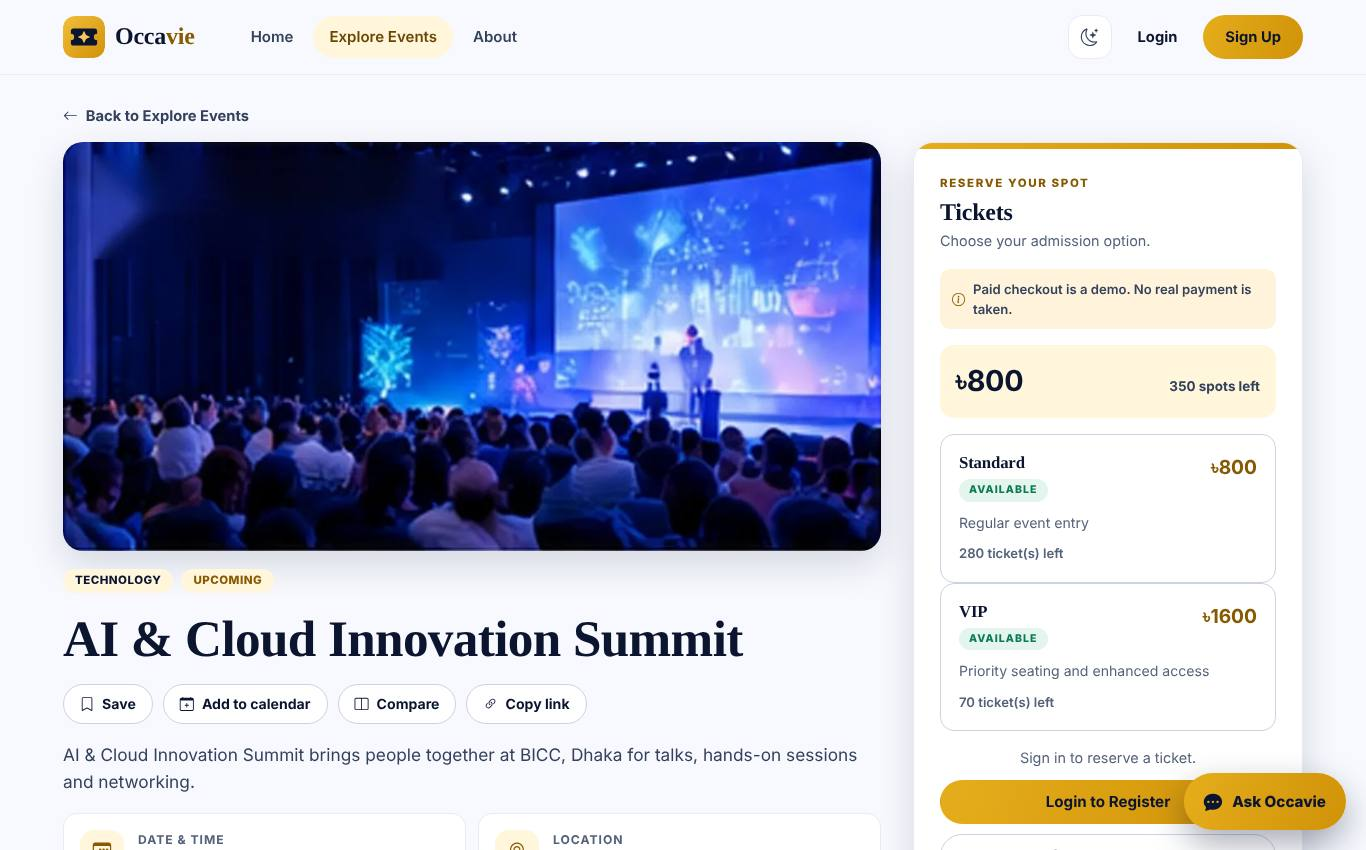
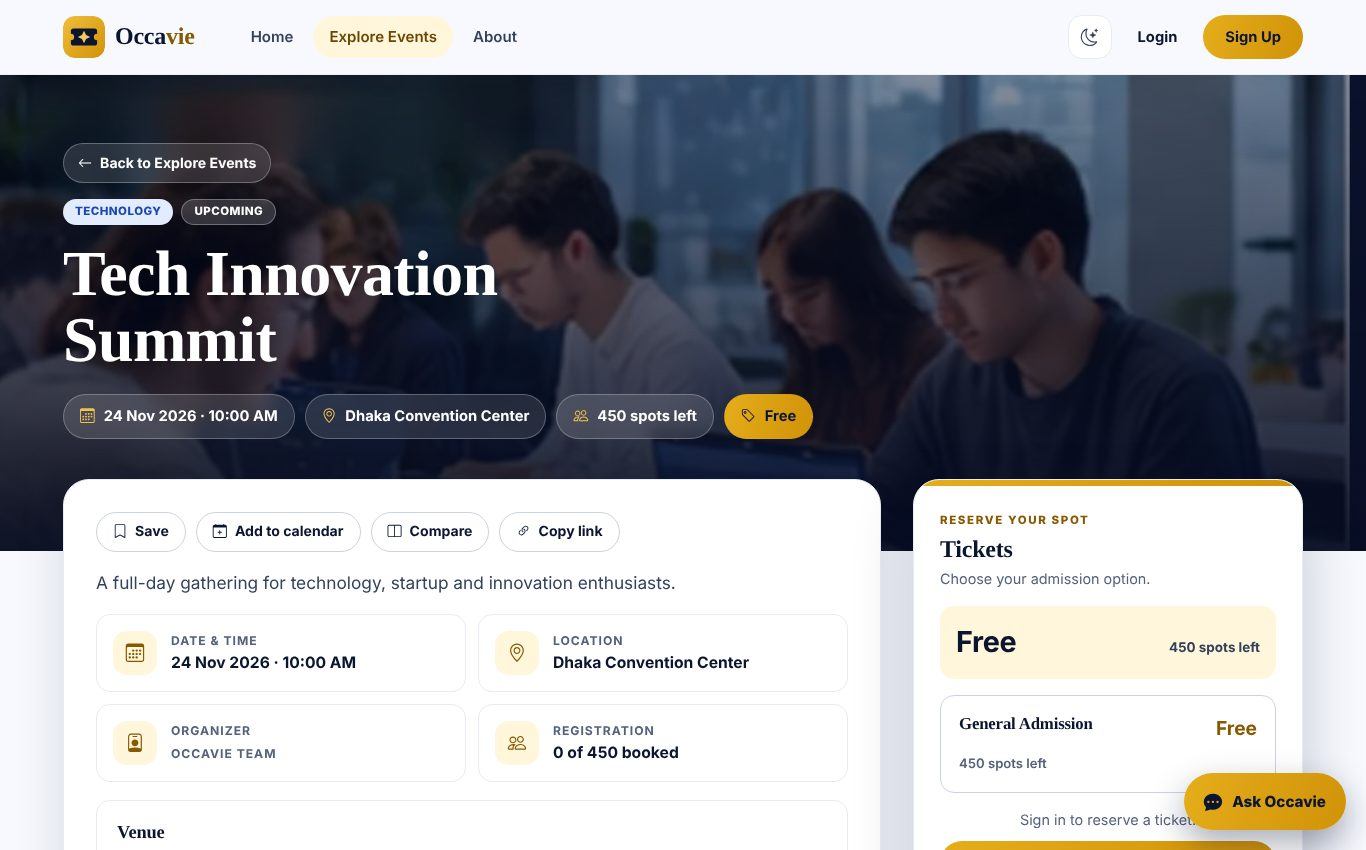
Redesign the event details page
Full-width hero built from the event's own photo with a slow zoom, title, topic and
status tags and glass chips for date, place, seats left and price. The details card
and ticket panel float over it. Booking, save, compare and calendar behaviour is
unchanged. axe clean at 4 sizes/themes.

Claude-Session: https://claude.ai/code/session_0133mjV3fwqNK9PBtkP1vyh6

diff --git a/src/main/resources/templates/event-details.html b/src/main/resources/templates/event-details.html
@@ -5,17 +5,26 @@
 <script type="application/ld+json" th:if="${eventJsonLd != null}" th:utext="${eventJsonLd}"></script>
 <a class="skip-link" href="#main-content">Skip to content</a>
 <div th:replace="~{fragments :: siteNav('events')}"></div>
-<main class="ov-container ov-details-main" id="main-content">
+<section class="ov-ed-hero" aria-labelledby="edTitle" th:with="efCover=${@display.listingImageUrl(event)},edSpots=${event.capacity - registrationCount}">
+  <img class="ov-ed-hero-img" data-event-image th:attr="data-event-category=${event.category}" th:src="${efCover}" src="/images/event-visual.png" alt="" fetchpriority="high">
+  <div class="ov-container ov-ed-hero-inner">
+    <a class="ov-ed-back" th:href="@{/events}" href="/events"><i class="bi bi-arrow-left" aria-hidden="true"></i> Back to Explore Events</a>
+    <div class="ov-ed-tags"><span class="ov-card-tag" th:attr="data-cat=${event.category}" th:text="${event.category}">Technology</span><span class="ov-status-pill" th:text="${@display.status(event)}">UPCOMING</span></div>
+    <h1 id="edTitle" th:text="${event.title}">Event title</h1>
+    <ul class="ov-ed-meta" aria-label="Event at a glance">
+      <li><i class="bi bi-calendar3" aria-hidden="true"></i><span th:text="${@display.eventDate(event) + ' · ' + @display.eventTime(event)}">Date</span></li>
+      <li><i class="bi bi-geo-alt" aria-hidden="true"></i><span th:text="${event.location}">Dhaka</span></li>
+      <li><i class="bi bi-people" aria-hidden="true"></i><span th:text="${@display.status(event) == 'COMPLETED' ? 'Event ended' : (edSpots le 0 ? 'Sold out' : edSpots + (edSpots == 1 ? ' spot left' : ' spots left'))}">50 spots left</span></li>
+      <li class="is-price"><i class="bi bi-tag" aria-hidden="true"></i><span th:text="${startingPrice}">Free</span></li>
+    </ul>
+  </div>
+</section>
+<main class="ov-container ov-details-main ov-ed-main" id="main-content">
   <div class="ov-banner is-draft" th:if="${isDraftPreview}" role="note"><i class="bi bi-eye"></i><div><strong>Preview, not public</strong><span th:text="${'Status: ' + @display.statusLabel(event) + '. Only you and administrators can see this page.'}">Only you and administrators can see this page.</span></div></div>
   <div class="ov-banner is-cancelled" th:if="${@display.status(event) == 'CANCELLED'}" role="note"><i class="bi bi-slash-circle"></i><div><strong>This event was cancelled</strong><span th:text="${event.cancellationReason != null ? event.cancellationReason : 'Registrations are no longer valid.'}">Reason</span></div></div>
-  <a class="ov-back-link" th:href="@{/events}"><i class="bi bi-arrow-left"></i> Back to Explore Events</a>
   <div class="ov-details-columns">
     <div class="ov-details-content">
       <section class="ov-details-overview">
-        <img class="ov-details-cover" data-event-image th:attr="data-event-category=${event.category}"
-             th:with="efCover=${@display.listingImageUrl(event)}" th:src="${efCover}" src="/images/event-visual.png" th:alt="${event.title}" alt="Event image">
-        <div class="ov-details-tags"><span class="ov-card-tag" th:text="${event.category}">Technology</span><span class="ov-status-pill" th:text="${@display.status(event)}">UPCOMING</span></div>
-        <h1 th:text="${event.title}">Event title</h1>
         <div class="ov-actions-row" aria-label="Event actions">
           <form th:if="${user != null and user.role == 'PARTICIPANT' and !isDraftPreview}" th:action="${'/participant/events/' + event.id + (isSaved ? '/unsave' : '/save')}" method="post" data-save-toggle th:attr="data-event-id=${event.id}">
             <button class="ov-outline-button" type="submit" th:attr="aria-pressed=${isSaved}"><i class="bi" th:classappend="${isSaved} ? 'bi-bookmark-fill' : 'bi-bookmark'"></i><span th:text="${isSaved ? 'Saved' : 'Save'}">Save</span></button>

diff --git a/src/main/resources/static/css/occavie-public.css b/src/main/resources/static/css/occavie-public.css
@@ -935,3 +935,28 @@ body.contact-public-body .contact-submit-button { min-height: 50px; padding: 0 2
 @keyframes ovCardIn { from { opacity: 0; transform: translateY(18px); } }
 .ov-explore-page .ov-event-card:hover { transform: translateY(-6px); box-shadow: 0 18px 44px rgba(11,21,48,.18); }
 @media (prefers-reduced-motion: reduce) { .ov-explore-page .ov-event-card { animation: none; } }
+
+/* ---- Event details hero ---- */
+.ov-ed-hero { position: relative; isolation: isolate; color: #fff; background: #0B1530; padding: 28px 0 112px; overflow: hidden; }
+.ov-ed-hero-img { position: absolute; inset: -20px; width: calc(100% + 40px); height: calc(100% + 40px); object-fit: cover; z-index: -2; filter: saturate(1.1); animation: ovEdZoom 24s ease-in-out infinite alternate; }
+@keyframes ovEdZoom { to { transform: scale(1.07); } }
+.ov-ed-hero::before { content: ""; position: absolute; inset: 0; z-index: -1; background: linear-gradient(0deg, rgba(8,14,36,.95) 0%, rgba(8,14,36,.72) 45%, rgba(8,14,36,.45) 100%), radial-gradient(50% 60% at 8% 100%, rgba(229,173,28,.3), transparent 70%); }
+.ov-ed-hero-inner { display: grid; gap: 16px; padding-top: 40px; }
+.ov-ed-back { justify-self: start; display: inline-flex; gap: 8px; align-items: center; padding: 8px 14px; border-radius: 999px; color: #fff; text-decoration: none; font-weight: 700; font-size: .88rem; background: rgba(255,255,255,.12); border: 1px solid rgba(255,255,255,.28); backdrop-filter: blur(8px); }
+.ov-ed-back:hover { background: rgba(255,255,255,.22); }
+.ov-ed-tags { display: flex; gap: 8px; flex-wrap: wrap; }
+.ov-ed-tags .ov-card-tag { position: static; }
+.ov-ed-tags .ov-status-pill { background: rgba(255,255,255,.16); color: #fff; border: 1px solid rgba(255,255,255,.3); }
+.ov-ed-hero h1 { font-family: var(--font-display); font-weight: 800; font-size: clamp(2.1rem, 5.4vw, 4rem); line-height: 1.04; color: #fff; max-width: 20ch; text-shadow: 0 2px 24px rgba(0,0,0,.35); }
+.ov-ed-meta { list-style: none; margin: 4px 0 0; padding: 0; display: flex; flex-wrap: wrap; gap: 10px; }
+.ov-ed-meta li { display: inline-flex; gap: 9px; align-items: center; padding: 10px 16px; border-radius: 999px; font-weight: 700; font-size: .92rem; background: rgba(255,255,255,.12); border: 1px solid rgba(255,255,255,.26); backdrop-filter: blur(10px); }
+.ov-ed-meta i { color: #F2C14E; }
+.ov-ed-meta .is-price { background: var(--gradient); color: #0B1530; border-color: transparent; } .ov-ed-meta .is-price i { color: #0B1530; }
+.ov-ed-main { position: relative; z-index: 2; margin-top: -72px; padding-top: 0; }
+.ov-ed-main .ov-details-overview { background: var(--surface); border: 1px solid var(--line); border-radius: 26px; box-shadow: 0 18px 50px rgba(11,21,48,.14); padding: clamp(20px, 3vw, 32px); }
+.ov-ed-main .ov-booking-panel { border-radius: 26px; box-shadow: 0 24px 60px rgba(11,21,48,.22); }
+.ov-ed-main .ov-details-facts > div { transition: transform .2s, box-shadow .2s; }
+.ov-ed-main .ov-details-facts > div:hover { transform: translateY(-3px); box-shadow: var(--shadow-sm); }
+.ov-ed-main .ov-banner { margin-bottom: 14px; }
+@media (max-width: 1000px) { .ov-ed-main .ov-booking-panel { margin-top: 0; } .ov-ed-hero { padding-bottom: 96px; } }
+@media (prefers-reduced-motion: reduce) { .ov-ed-hero-img { animation: none; } }
